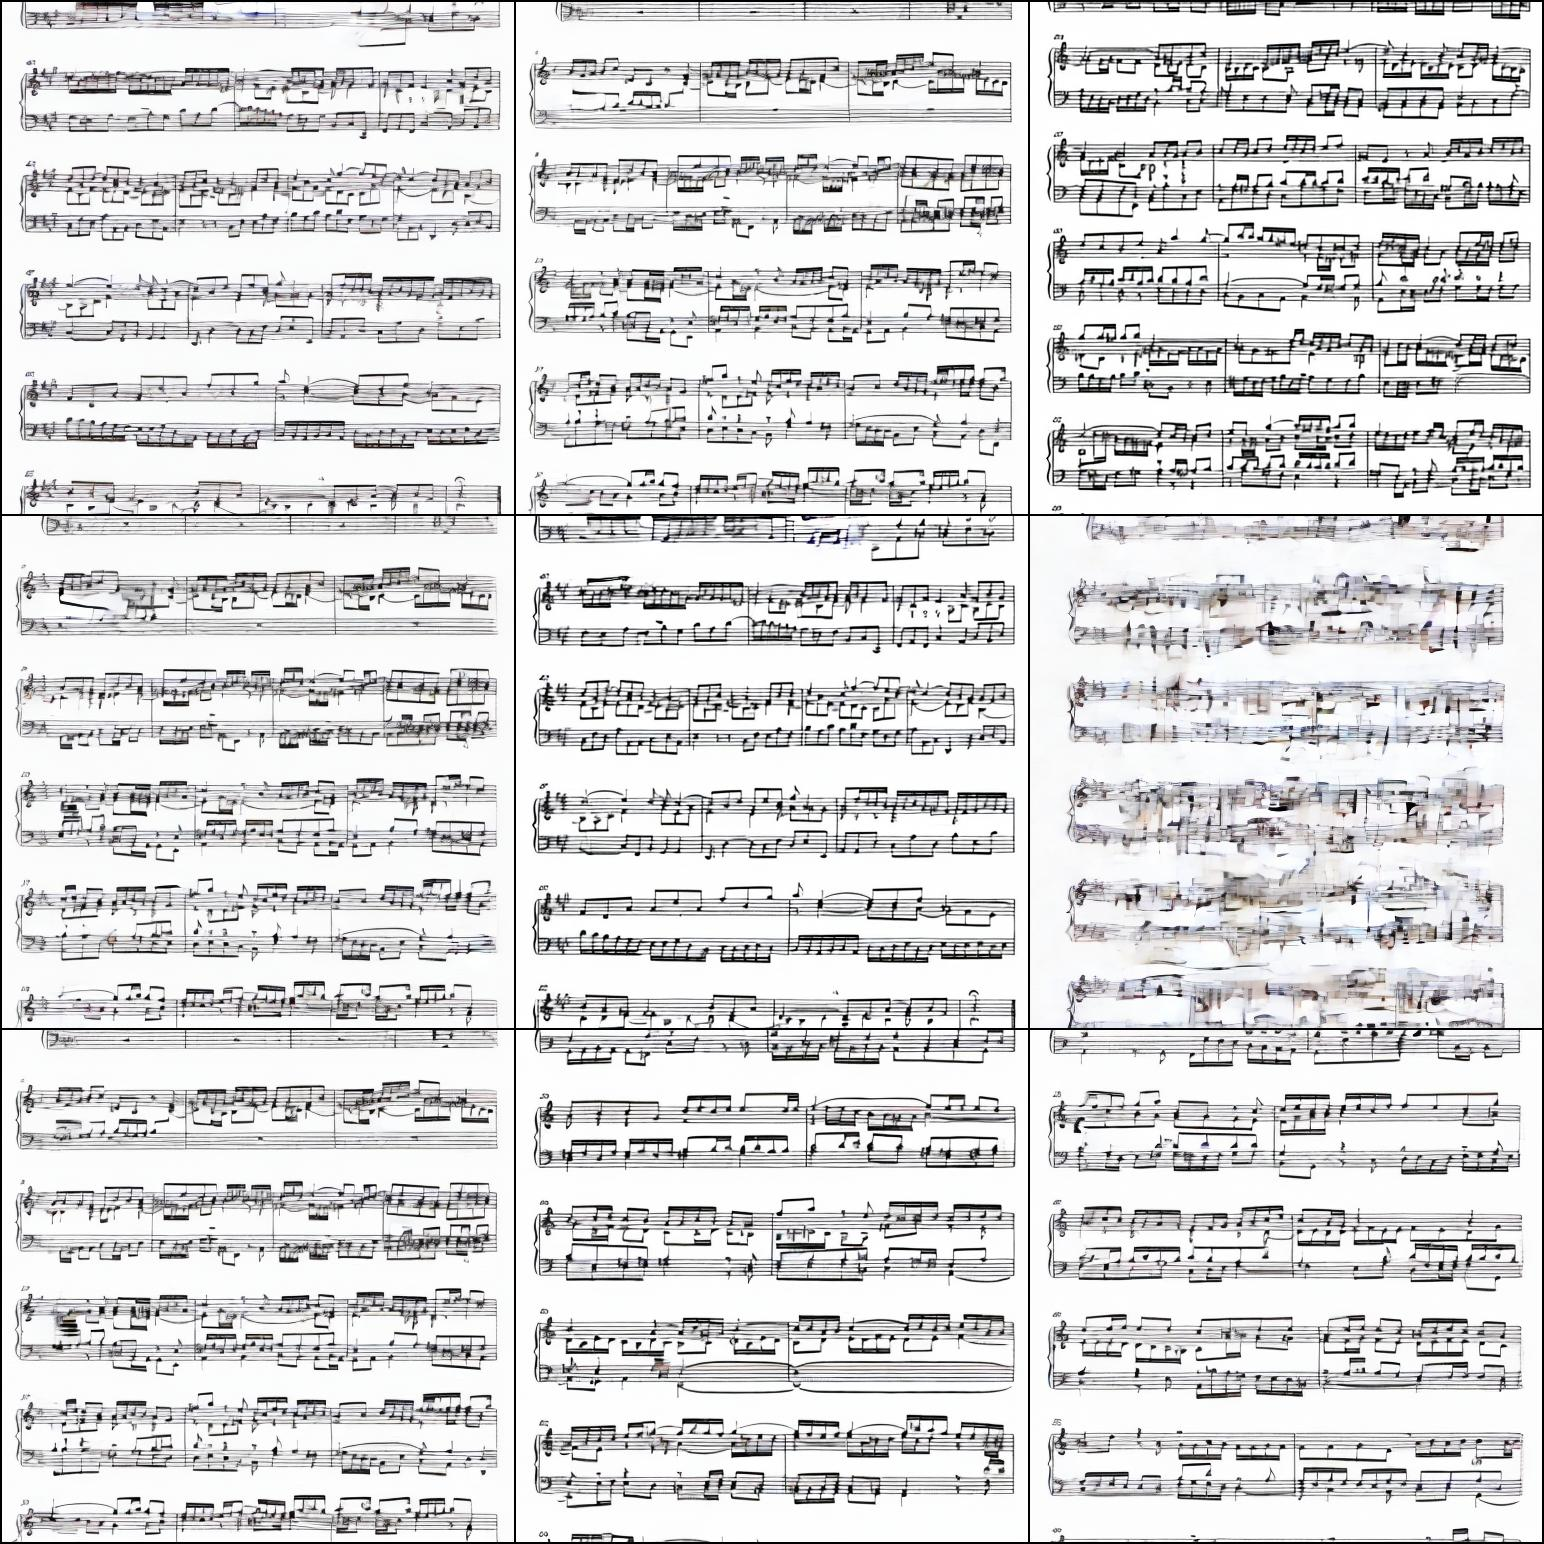
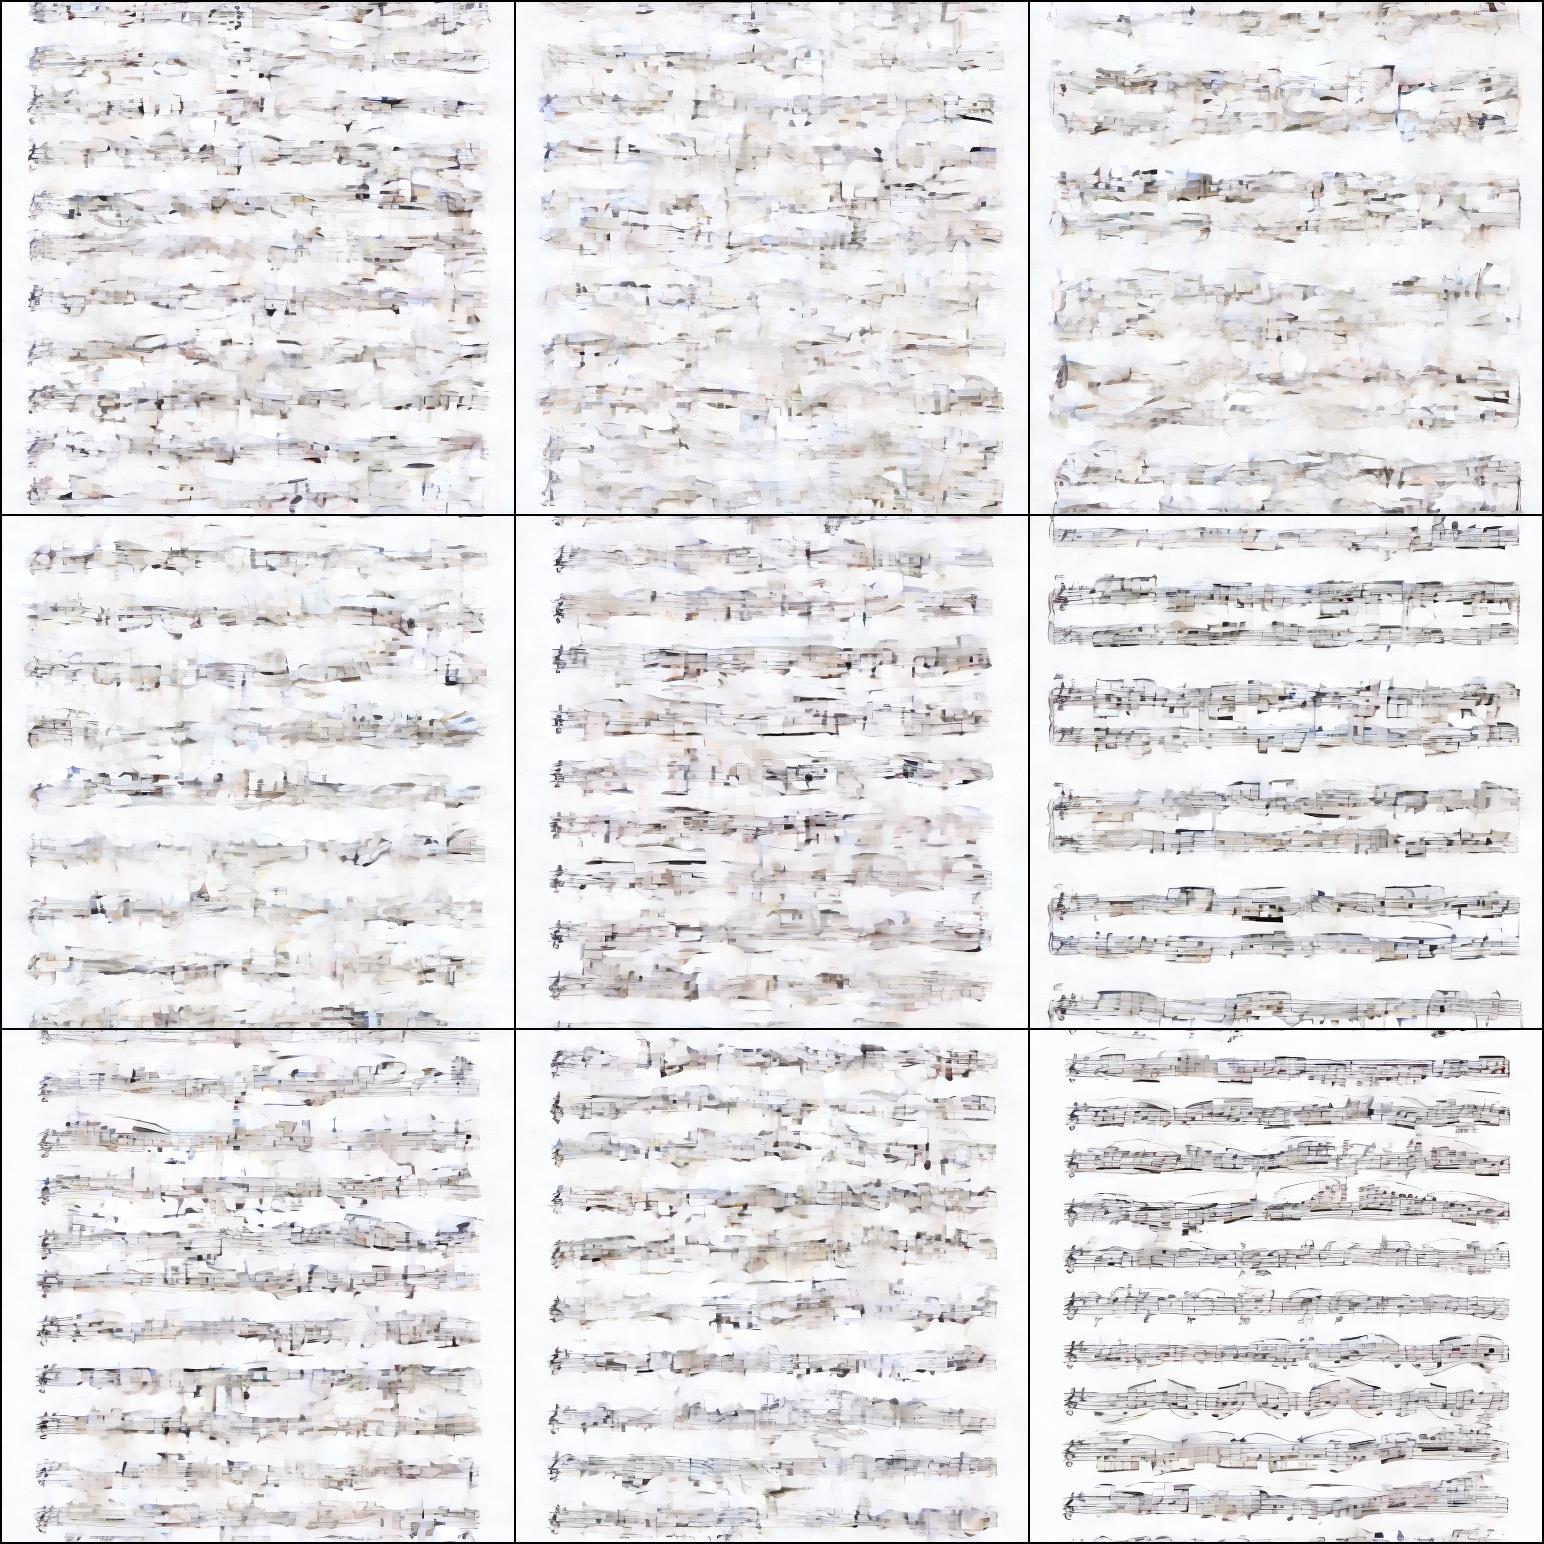
latest

diff --git a/README.md b/README.md
@@ -1,1 +1,47 @@
 # MusicScore-Inference
+
+Official inference script for text-driven Music Score Generation experiment of [paper](https://arxiv.org/abs/2406.11462):
+**MusicScore: A Dataset for Music Score Modeling and Generation**.
+
+> [Yuheng Lin](https://rozenthegoat.github.io), [Zheqi Dai](https://github.com/dzq84) and [Qiuqiang Kong](https://github.com/qiuqiangkong)
+
+# Setup
+
+This codebase is under Python 3.11. To setup a conda environment, run the following:
+
+```
+conda create -n ScoreGen python=3.11
+conda activate ScoreGen
+pip install -r requirement.yaml
+```
+
+An example shell script to run the inference is provided `inference.sh`.
+
+```
+bash inference.sh
+```
+
+It is also encouraged to make your own attempt by modifying the arguments:
+
+```
+CUDA_VISIBLE_DEVICES=0 \
+python main.py \
+  --prompt "a music score of piano" \
+  --ckpt_path "checkpoint/epoch_78000.pt" \
+  --config "config.yaml" \
+  --outpath "result.jpg" \
+  --n_sample 5 \
+  --resolution 512 \
+  --cfg_scale 4.0 \
+  --ddim_steps 10 \
+```
+
+# Gradio Demo
+
+We also support a simple Gradio web interface for easier inference.
+
+```
+python gradio_demo.py
+```
+
+By testing, inferencing 512 resolution of 9 images at one time consumes 23.58G GPU memory, within the capacity of one RTX 4090.
